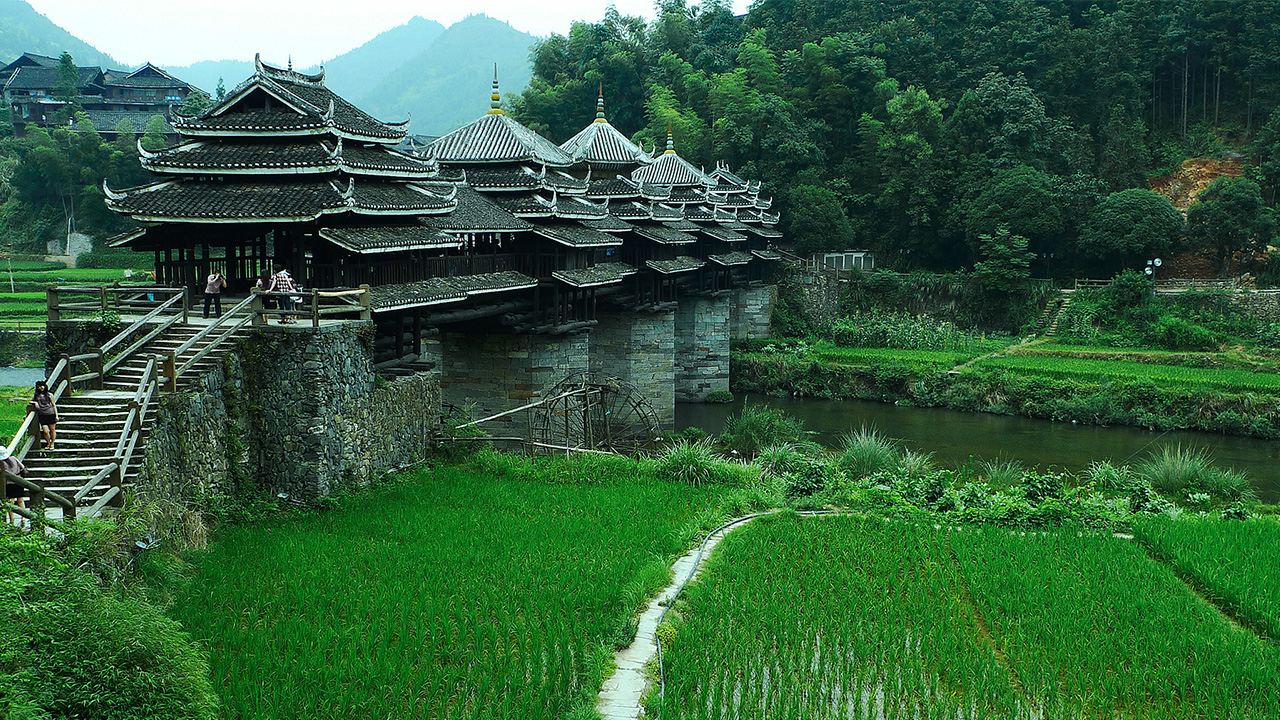
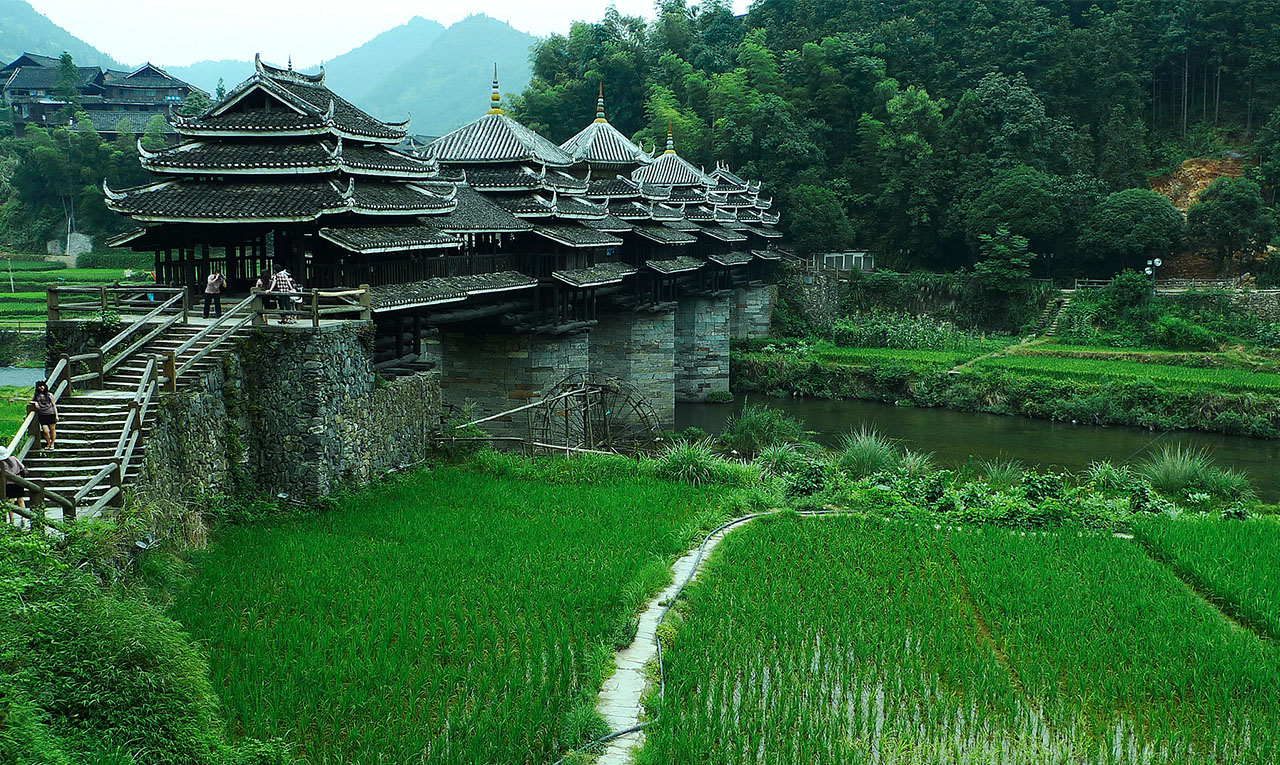
修改了图片大小、压缩css

diff --git a/css/apps/index.min.css b/css/apps/index.min.css
@@ -1,0 +1,1 @@
+@charset "utf-8";body{font-family:"Microsoft YaHei","宋体","Heiti SC";margin:0;min-width:730px}.zy_hidden,.zy_disable{display:none}.hasVideo:before{content:"";background:url(../../images/apps/hasvideo.png) no-repeat;width:80px;height:80px;position:absolute;right:0;top:0}.zy_touch_hscroll{overflow:auto !important;overflow-x:scroll !important;overflow-y:hidden !important;-webkit-overflow-scrolling:touch}img{border:0}a{text-decoration:none}.zy_bg_fixed{position:fixed !important;top:90px;left:0}.zy_music_section{position:fixed;top:0;right:0;height:50px;width:50px;z-index:100}.zy_player{margin-right:50px;height:100%;background:#cb2f3b;position:relative}.zy_music_title{text-align:center;font-size:14px;font-weight:bold;margin:0 0 0 10%;color:#fff;display:inline-block;height:100%;line-height:50px}.zy_music_controller{width:30%;height:100%;position:absolute;top:0;right:4px;text-align:center;line-height:50px}.zy_music_controller a{display:inline-block;height:14px;font-size:0;cursor:pointer;margin:0 5%;vertical-align:middle}.zy_music_prev{width:20px;background:url(../../images/apps/sprite.png) no-repeat -1574px -917px}.zy_music_play{width:10px;background:url(../../images/apps/sprite.png) no-repeat -1198px -1006px}.zy_music_pause{width:14px;height:12px;background:url(../../images/apps/sprite.png) no-repeat -1758px -871px}.zy_music_next{width:20px;background:url(../../images/apps/sprite.png) no-repeat -2018px -2px}.zy_music_prev:hover{width:20px;background:url(../../images/apps/sprite.png) no-repeat -2px -1005px}.zy_music_play:hover{background:url(../../images/apps/sprite.png) no-repeat -698px -972px}.zy_music_pause:hover{width:14px;height:12px;background:url(../../images/apps/sprite.png) no-repeat -1998px -57px}.zy_music_next:hover{width:20px;background:url(../../images/apps/sprite.png) no-repeat -1683px -679px}.zy_separate{display:block;height:30px;position:absolute;margin-top:10px;top:0;right:0;font-size:0;width:1px;background:#fff}.zy_music_show{display:inline-block;width:50px;height:50px;position:absolute;bottom:0;right:0;background:url(../../images/apps/music_entrance.png) no-repeat;cursor:pointer}.zy_music_show.zy_music_show_play{background:url(../../images/apps/music_entrance.gif) no-repeat}.zy_music_timeline{width:0;background:#fff;height:4px;position:absolute;bottom:0;font-size:0}.zy_main_wrapper{overflow:hidden}.zy_top_post{position:relative;width:100%;overflow:hidden;z-index:5}.zy_top_post_poster{width:100%;font-size:0;height:600px;position:relative;background:#ccc;overflow:hidden}.zy_top_post_heading{height:330px;position:absolute;width:100%;top:40%;margin-top:-115px;text-align:center}.zy_top_post_title{color:#fff;font-size:3em;overflow:hidden;cursor:pointer;height:135px;line-height:135px;max-width:70%;margin:auto;background:url(../../images/apps/water_graphics.png) no-repeat center center}.zy_top_post_date{color:#fff;font-size:1.5em;margin-top:10px}.zy_nav{width:100%;background:url(../../images/apps/nav_bg.png) repeat-x;height:80px;position:relative;z-index:5}.zy_nav ul{width:80%;margin:0 auto;text-align:center;padding:0;z-index:5}.zy_nav ul li:not(.zy_logo_li){display:inline-block;width:14%;list-style:none;vertical-align:top;position:relative}.zy_nav ul li>a{display:inline-block;font-size:24px;font-weight:bold;color:#fff;height:80px;line-height:80px;width:80px;-moz-box-sizing:border-box;-webkit-box-sizing:border-box;box-sizing:border-box;z-index:50}.zy_nav ul li>a:hover,.zy_nav ul li>a.active{border-bottom:solid 4px #ca2e3a;cursor:pointer;color:#ca2e3a}.zy_logo_li{width:220px;display:inline-block;list-style:none;vertical-align:top}.zy_logo{position:absolute;bottom:40px;width:100%;left:0;margin:0;z-index:8}.zy_logo:before,.zy_logo:after{content:"";background:#fff;height:2px;width:100%;position:absolute;bottom:39px}.zy_logo:before{left:50%;margin-left:110px}.zy_logo:after{right:50%;margin-right:110px}.zy_logo a{display:block;height:254px;background:url(../../images/apps/logo.png) no-repeat center center;font-size:0;width:220px;margin:auto}.zy_nav.zy_nav_active{position:fixed;top:0;z-index:50}.zy_nav.zy_nav_active .zy_logo{position:static}.zy_nav.zy_nav_active .zy_logo a{background:url(../../images/apps/logo_active.png) no-repeat center center;height:80px;width:128px;margin:auto}.zy_nav.zy_nav_active .zy_logo:before,.zy_nav.zy_nav_active .zy_logo:after{content:"";width:0;height:0}.zy_featured{width:100%;height:680px;background:#e0dbb3;padding-top:30px;position:relative;-webkit-box-sizing:border-box;-moz-box-sizing:border-box;-ms-box-sizing:border-box;box-sizing:border-box;z-index:5}.zy_featured:before{content:"";position:absolute;left:0;top:0;width:275px;height:210px;background:url(../../images/apps/mask_features_top.png) no-repeat}.zy_featured_heading{width:205px;background:url(../../images/apps/sprite.png) no-repeat -1604px -917px;height:68px;margin:0 auto;color:#f30;font-size:0;text-indent:-9999px;position:relative;top:30px}.zy_featured_articles{margin:70px 0;padding:10px 0;text-align:center;width:100%;-webkit-box-sizing:border-box;-moz-box-sizing:border-box;-ms-box-sizing:border-box;box-sizing:border-box;overflow:hidden}.zy_featured_articles li{display:inline;list-style:none}.zy_featured_articles .abstract{display:inline-block;margin:0 1%;-webkit-box-sizing:border-box;-moz-box-sizing:border-box;-ms-box-sizing:border-box;box-sizing:border-box;padding:15px;width:20%;height:460px;background:#fff;border-bottom:solid #c7c69e 8px;cursor:pointer;position:relative;vertical-align:top}.zy_featured_articles li .thumb img{width:100%}.zy_featured_articles li .title{width:100%;font-size:18px;overflow:hidden;font-weight:bold;color:#ca2e3a;text-align:left;white-space:nowrap;text-overflow:ellipsis}.zy_featured_articles li .excerpt{text-align:left;color:#666;height:78px;overflow:hidden;font-size:14px}.zy_featured_articles li .date{background:url(../../images/apps/sprite.png) no-repeat -1926px -2px;width:90px;height:53px;position:absolute;top:15px;left:-20px;color:#fff}.zy_featured_articles li .year{display:block}.zy_subheading{font-size:1.5em;color:#fff;text-align:center;font-weight:bold;position:absolute;z-index:12;height:68px;width:395px;left:50%;margin:0 0 0 -197.5px;line-height:68px;background:url(../../images/apps/sprite.png) no-repeat -1286px -679px}.zy_section_bg{height:800px;overflow:hidden;font-size:0;width:100%;position:relative;z-index:1}.zy_theme_bg_content{position:absolute;top:0;min-width:100%;min-height:800px;opacity:0;-webkit-transition:opacity 1s;-moz-transition:opacity 1s;-ms-transition:opacity 1s;transition:opacity 1s}.zy_theme_bg_default{opacity:1}.zy_contain_prev,.zy_contain_next{position:absolute;width:50px;height:50px;top:50%;margin-top:-25px;z-index:1;font-size:0;text-indent:-9999px;cursor:pointer;opacity:0;-webkit-transition:opacity .4s ease-out;-moz-transition:opacity .4s ease-out;-ms-transition:opacity .4s ease-out;transition:opacity .4s ease-out}.zy_contain_prev{background:url(../../images/apps/btn_arrow_left.png) no-repeat;left:0}.zy_contain_next{background:url(../../images/apps/btn_arrow_right.png) no-repeat;right:0}.zy_contain_prev:hover{background:url(../../images/apps/btn_arrow_left_pressed.png) no-repeat}.zy_contain_next:hover{background:url(../../images/apps/btn_arrow_right_pressed.png) no-repeat}.zy_list_container{position:relative;margin:auto;height:100%;overflow:hidden;border-top:#ccc 1px solid;border-bottom:#ccc 1px solid}.zy_landscape{position:relative;z-index:4}.zy_landscape_top_bg{background:#e0dbb3;height:80px;right:175px;position:absolute;width:100%;z-index:8}.zy_landscape_top_bg:after{content:"";background:url(../../images/apps/mask_landscape_top.png) no-repeat;width:175px;height:211px;position:absolute;top:0;right:-175px;z-index:11}.zy_landscape_heading{font-size:0;background:url(../../images/apps/sprite.png) no-repeat -1286px -341px;width:426px;height:336px;position:absolute;top:215px;left:50%;margin-left:-213px;z-index:1}.zy_landscape>.zy_subheading{top:685px}.zy_landscape_bottom_bg:before{content:"";background:url(../../images/apps/sprite.png) no-repeat -1245px -760px;width:150px;height:215px;position:absolute;bottom:0;left:-150px;z-index:11}.zy_landscape_bottom_bg{background:#191919;height:80px;top:720px;left:150px;position:absolute;width:100%;z-index:8}.zy_landscape_contain{width:100%;height:680px;-webkit-box-sizing:border-box;-moz-box-sizing:border-box;-ms-box-sizing:border-box;box-sizing:border-box;background:#191919;white-space:nowrap;overflow:hidden;position:relative;z-index:8}.zy_landscape_contain>.zy_list_container{border:0}.zy_landscape_contain>.zy_contain_prev,.zy_landscape_contain>.zy_contain_next{margin-top:-50px}.zy_landscape_list{margin:0;height:100%;-webkit-box-sizing:border-box;-moz-box-sizing:border-box;-ms-box-sizing:border-box;box-sizing:border-box;font-size:0;position:absolute;left:0;padding:0}.zy_landscape_article{display:inline-block;width:320px;height:100%;white-space:normal;-webkit-box-sizing:border-box;-moz-box-sizing:border-box;-ms-box-sizing:border-box;box-sizing:border-box;padding:0 10px;position:relative;cursor:pointer;vertical-align:top}.zy_landscape_article>.zy_article_info{position:relative}.zy_landscape_article>.zy_article_info img{width:100%}.zy_landscape_article>.zy_article_info h2{position:absolute;bottom:0;left:0;font-size:18px;color:#fff;background:url(../../images/apps/articletitle_fengjing_bg.png) repeat-x;margin:0;height:50px;width:100%;line-height:50px;text-indent:15px;overflow:hidden;white-space:nowrap;text-overflow:ellipsis}.zy_landscape_article>.zy_article_info:nth-child(2n){padding-top:20px}.zy_people{position:relative;z-index:3}.zy_people_top_bg:before{content:"";background:url(../../images/apps/sprite.png) no-repeat -1891px -474px;width:124px;height:205px;position:absolute;top:0;right:-124px;z-index:11}.zy_people_top_bg{background:#191919;height:5px;position:absolute;right:124px;width:100%;z-index:8}.zy_people_heading{font-size:0;text-indent:-9999px;background:url(../../images/apps/sprite.png) no-repeat -858px -422px;width:426px;height:336px;position:absolute;top:160px;left:50%;margin-left:-213px;z-index:1}.zy_people>.zy_subheading{top:640px}.zy_people_bottom_bg:after{content:"";background:url(../../images/apps/mask_humanity_bottom.png) no-repeat;width:200px;height:226px;position:absolute;bottom:0;left:-200px;z-index:11}.zy_people_bottom_bg{background:#fff;height:120px;position:absolute;top:680px;left:200px;width:100%;z-index:8}.zy_people_contain,.zy_community_contain{width:100%;height:530px;-webkit-box-sizing:border-box;-moz-box-sizing:border-box;-ms-box-sizing:border-box;box-sizing:border-box;background:#fff;white-space:nowrap;overflow:hidden;position:relative;z-index:8;padding:5px 5px 10px 5px}.zy_people_list,.zy_community_list{padding:0;margin:0;height:100%;-webkit-box-sizing:border-box;-moz-box-sizing:border-box;-ms-box-sizing:border-box;box-sizing:border-box;padding:20px 0;font-size:0;vertical-align:top;position:absolute;left:0}.zy_people_article,.zy_community_article{display:inline-block;width:240px;height:100%;white-space:normal;border-right:#ccc 1px solid;-webkit-box-sizing:border-box;-moz-box-sizing:border-box;-ms-box-sizing:border-box;box-sizing:border-box;padding:0 20px;position:relative;cursor:pointer}.zy_people_article>.zy_article_thumb,.zy_community_article>.zy_article_thumb{width:200px;height:200px;overflow:hidden;position:absolute;top:0}.zy_people_article>.zy_article_thumb img,.zy_community_article>.zy_article_thumb img{width:100%}.zy_people_article>.zy_article_abstract,.zy_community_article>.zy_article_abstract{width:200px;height:240px;text-align:center;position:absolute;bottom:0;overflow:hidden;color:#666}.zy_people_article>.zy_article_abstract h2,.zy_community_article>.zy_article_abstract h2{font-size:24px;color:#ca2e3a;overflow:hidden;white-space:nowrap;text-overflow:ellipsis}.zy_people_article>.zy_article_abstract p,.zy_community_article>.zy_article_abstract p{font-size:16px;line-height:2em;margin:5px 0}.zy_people_article>.zy_article_abstract p.zy_article_date,.zy_community_article>.zy_article_abstract p.zy_article_date{font-size:12px;border-top:#ccc 1px solid;padding-top:8px}.zy_people_article:nth-child(2n)>.zy_article_thumb,.zy_community_article:nth-child(2n)>.zy_article_thumb{bottom:0;top:auto}.zy_people_article:nth-child(2n)>.zy_article_abstract,.zy_community_article:nth-child(2n)>.zy_article_abstract{top:0;height:240px}.zy_artifact{position:relative;z-index:2}.zy_artifact .zy_section_bg{height:840px}.zy_artifact .zy_theme_bg_content{min-height:840px}.zy_artifact_top_bg:before{content:"";background:url(../../images/apps/sprite.png) no-repeat -304px -761px;width:131px;height:235px;position:absolute;top:0;right:-131px;z-index:11}.zy_artifact_top_bg{background:#fff;height:104px;position:absolute;right:131px;width:100%;z-index:8}.zy_artifact_heading{font-size:0;text-indent:-9999px;background:url(../../images/apps/sprite.png) no-repeat -2px -422px;width:426px;height:336px;position:absolute;top:255px;left:50%;margin-left:-213px;z-index:1}.zy_artifact>.zy_subheading{top:700px}.zy_artifact_bottom_bg:after{content:"";background:url(../../images/apps/mask_artifacts_bottom.png) no-repeat;width:175px;height:234px;position:absolute;bottom:0;left:-175px;z-index:11}.zy_artifact_bottom_bg{background:#fff;height:100px;position:absolute;left:175px;top:740px;width:100%;z-index:8}.zy_artifact_contain{width:100%;height:480px;padding:20px;-webkit-box-sizing:border-box;-moz-box-sizing:border-box;-ms-box-sizing:border-box;box-sizing:border-box;background:#fff;white-space:nowrap;overflow:hidden;position:relative;z-index:8}.zy_artifact_list{margin:0;height:100%;-webkit-box-sizing:border-box;-moz-box-sizing:border-box;-ms-box-sizing:border-box;box-sizing:border-box;padding:20px 0;font-size:0;position:absolute;left:0}.zy_artifact_article{display:inline-block;width:200px;height:400px;white-space:normal;-webkit-box-sizing:border-box;-moz-box-sizing:border-box;-ms-box-sizing:border-box;box-sizing:border-box;margin-right:5px;padding:0 5px 0 0;position:relative;overflow:hidden;cursor:pointer;vertical-align:top}.zy_artifact_list>.zy_artifact_article:first-child{width:400px;padding:0;margin-right:10px}.zy_artifact_list>.zy_artifact_article:first-child>.zy_article_thumb{height:400px}.zy_artifact_list>.zy_artifact_article:first-child>.zy_article_thumb>img{border:1px solid #ccc;box-sizing:border-box}.zy_artifact_list .zy_article_abstract{position:absolute;bottom:20px;left:20px;width:300px;height:190px;background:url(../../images/apps/sprite.png) no-repeat -2px -761px;padding:0 5%;box-sizing:border-box}.zy_artifact_list .zy_article_abstract h2{font-size:18px;color:#fff;height:50px;text-align:center;margin:0;line-height:50px;overflow:hidden;border-bottom:1px solid #fff;white-space:nowrap;text-overflow:ellipsis}.zy_artifact_list .zy_article_abstract p{font-size:14px;color:#fff;overflow:hidden;max-height:60px}.zy_artifact_article>.zy_article_info{position:relative;width:195px}.zy_artifact_article>.zy_article_info img{width:100%;border:1px solid #ccc;box-sizing:border-box}.zy_artifact_article>.zy_article_info h2{position:absolute;bottom:0;left:0;font-size:18px;color:#fff;background:url(../../images/apps/articletitle_wuyu_bg_small.png) repeat-x;margin:0;height:50px;width:100%;line-height:50px;text-indent:15px;overflow:hidden}.zy_artifact_article>.zy_article_info:nth-child(2n){padding-top:10px}.zy_community{position:relative;z-index:1}.zy_community .zy_section_bg{height:840px}.zy_community .zy_theme_bg_content{min-height:840px}.zy_community_top_bg:before{content:"";background:url(../../images/apps/mask_community_top.png) no-repeat;width:175px;height:306px;position:absolute;top:0;right:-175px;z-index:11}.zy_community_top_bg{background:#fff;height:100px;position:absolute;right:175px;width:100%;z-index:8}.zy_community_heading{font-size:0;text-indent:-9999px;background:url(../../images/apps/sprite.png) no-repeat -430px -422px;width:426px;height:336px;position:absolute;top:235px;left:50%;margin-left:-213px;z-index:1}.zy_community>.zy_subheading{top:686px}.zy_community_bottom_bg:after{content:"";background:url(../../images/apps/mask_community_bottom.png) no-repeat;width:175px;height:200px;position:absolute;bottom:0;left:-175px;z-index:11}.zy_community_bottom_bg{background:#fff;height:120px;position:absolute;top:720px;left:175px;width:100%;z-index:8}.zy_footer{width:100%;background-color:#fff;position:relative;padding:80px 0 0 0;-webkit-box-sizing:border-box;-moz-box-sizing:border-box;-ms-box-sizing:border-box;box-sizing:border-box}.zy_project_top_bg{height:111px;margin-right:182px;background:#212121;position:relative}.zy_project_top_bg:before{content:"";width:998px;height:80px;background:url(../../images/apps/sprite.png) no-repeat -2px -340px;position:absolute;bottom:111px}.zy_project_top_bg:after{content:"";width:182px;height:166px;background:url(../../images/apps/sprite.png) no-repeat -1574px -749px;position:absolute;right:-182px;bottom:0}.zy_project{background:#212121}.zy_project_info{width:40%;position:relative;top:-70px;padding:0;-webkit-box-sizing:border-box;-moz-box-sizing:border-box;-ms-box-sizing:border-box;box-sizing:border-box;display:inline-block;vertical-align:top}.zy_project_title{height:68px;width:205px;font-size:0;text-indent:-9999px;background:url(../../images/apps/sprite.png) no-repeat -1002px -340px;margin:auto}.zy_project_info p{color:#e6e6e6;font-size:14px;line-height:2em}.zy_project_sponsors{margin:0 5% 0 0;padding-left:10%;width:35%;display:inline-block;position:relative;top:-70px}.zy_bottom_logo{width:285px;margin:10px auto 20px auto}.zy_bottom_logo a{width:285px;height:268px;background:url(../../images/apps/sprite.png) no-repeat -1723px -204px;display:block;margin:auto;font-size:0}.zy_project_sponsors ul{margin:auto;text-align:center;border-top:1px solid #444;padding:10px 0 10px 0;font-size:0}.zy_project_sponsors ul li{display:inline-block;width:190px}.zy_project_sponsors ul li:first-child{border-right:2px solid #444;box-sizing:border-box;-moz-box-sizing:border-box;-webkit-box-sizing:border-box}.zy_project_sponsors .zy_logo_mkmj,.zy_project_sponsors .zy_logo_hnusd{width:180px;height:64px;font-size:0;text-indent:-9999px;margin:auto;display:block}.zy_project_sponsors .zy_logo_mkmj{background:url(../../images/apps/meikemeijie_logo.png) no-repeat}.zy_project_sponsors .zy_logo_hnusd{background:url(../../images/apps/HNU_logo.png) no-repeat}.zy_copyright{background:#333;padding:50px 0;text-align:center;color:#ccc;font-size:.7em}.zy_app_download{background:#333;text-align:center;padding:150px 0 50px 0}.zy_app_download>h2{font-size:2em;font-weight:bold;position:relative;margin:0;color:#b3b3b3;font-weight:normal}.zy_app_download>h3{font-size:3em;font-weight:bold;margin:0 auto;padding-bottom:20px;color:#b3b3b3;border-bottom:#b3b3b3 1px solid;width:600px}.zy_app_download_list{margin:0;padding:0}.zy_app_download_list li{list-style:none;display:inline-block}.zy_app_download_list li a{font-size:0;width:72px;height:72px;display:inline-block;text-indent:-9999px}.zy_app_download_list li a:hover{opacity:.5}.zy_app_download_list .zy_android_phone_app{background:url(../../images/apps/logo_android_phone.png) no-repeat}.zy_app_download_list .zy_android_pad_app{background:url(../../images/apps/logo_android_pad.png) no-repeat}.zy_wrap{position:fixed;top:0;left:0;width:100%;height:100%;background:#000;opacity:.7;z-index:9996}.zy_show_section{z-index:9999;position:fixed;top:0;bottom:0;width:100%;-webkit-box-sizing:border-box;-moz-box-sizing:border-box;-ms-box-sizing:border-box;box-sizing:border-box}.zy_show_close{width:50px;height:50px;display:block;margin:auto;cursor:pointer;background:url(../../images/apps/btn_close_normal.png) no-repeat}.zy_show_close:hover{background:url(../../images/apps/btn_close_pressed.png) no-repeat}.zy_article_container{position:fixed;left:100%;top:0;z-index:9997;width:100%;height:100%;margin:auto}.zy_popout_win{width:640px;height:200px;-webkit-box-sizing:border-box;-moz-box-sizing:border-box;-ms-box-sizing:border-box;box-sizing:border-box;background:url(../../images/apps/sprite.png) no-repeat -1284px -2px;padding:20px;position:fixed;top:50%;left:50%;margin:-100px 0 0 -320px;z-index:10001;text-align:center;overflow:hidden}.zy_popout_win>.zy_popout_title{color:#fff}.zy_popout_win>.zy_popout_btn{background:#fff;padding:8px;width:120px;display:block;position:absolute;bottom:30px;left:50%;margin-left:-60px;color:#ca2e3a;font-weight:bold;cursor:pointer}.zy_popout_win>.zy_popout_btn:hover{background:#1a1a1a}@-webkit-keyframes top{0%{opacity:1}50%{opacity:.6}100%{opacity:.2}}@-webkit-keyframes center{0%{opacity:1}50%{opacity:.2}100%{opacity:.6}}@-webkit-keyframes bottom{0%{opacity:.2}50%{opacity:.6}100%{opacity:1}}@-moz-keyframes top{0%{opacity:1}50%{opacity:.6}100%{opacity:.2}}@-moz-keyframes center{0%{opacity:1}50%{opacity:.2}100%{opacity:.6}}@-moz-keyframes bottom{0%{opacity:.2}50%{opacity:.6}100%{opacity:1}}@keyframes top{0%{opacity:1}50%{opacity:.6}100%{opacity:.2}}@keyframes center{0%{opacity:1}50%{opacity:.2}100%{opacity:.6}}@keyframes bottom{0%{opacity:.2}50%{opacity:.6}100%{opacity:1}}.zy_loading_spinner{position:absolute;top:50%;left:50%}.zy_loading_top,.zy_loading_center_left,.zy_loading_center_right,.zy_loading_bottom_left,.zy_loading_bottom_right{width:10px;height:10px;position:absolute;left:50%;background:#e83a00}.zy_loading_top{margin-left:-5px;-webkit-animation:top 2s infinite linear reverse;-moz-animation:top 2s infinite linear reverse;animation:top 2s infinite linear reverse}.zy_loading_center_left,.zy_loading_center_right{top:10px;-webkit-animation:center 2s infinite linear reverse;-moz-animation:center 2s infinite linear reverse;animation:center 2s infinite linear reverse}.zy_loading_center_left{margin-left:-15px}.zy_loading_center_right{margin-left:5px}.zy_loading_bottom_left,.zy_loading_bottom_right{top:20px;-webkit-animation:bottom 2s infinite linear reverse;-moz-animation:bottom 2s infinite linear reverse;animation:bottom 2s infinite linear reverse}.zy_loading_bottom_left{margin-left:-25px}.zy_loading_bottom_right{margin-left:15px}.zy_article_content{background:#fff;width:100%;position:absolute;top:50px;bottom:0;overflow-x:auto;overflow-y:hidden;padding:30px;-webkit-box-sizing:border-box;-moz-box-sizing:border-box;-ms-box-sizing:border-box;box-sizing:border-box}.zy_article_content::-webkit-scrollbar{height:8px}.zy_article_content::-webkit-scrollbar-track{background:#1a1a1a}.zy_article_content::-webkit-scrollbar-thumb{background:#ca2e3a}.zy_article_content_close{cursor:pointer;width:50px;height:50px;display:block;background:url(../../images/apps/btn_back_normal.png) no-repeat}.zy_article_content_close:hover{background:url(../../images/apps/btn_back_pressed.png)}.zy_show_load_container{width:100%;text-align:center;position:absolute;top:50px;bottom:0;overflow-y:auto}.zy_show_load_container::-webkit-scrollbar{width:8px}.zy_show_load_container::-webkit-scrollbar-track{background:#1a1a1a}.zy_show_load_container::-webkit-scrollbar-thumb{background:#ca2e3a}.zy_show_load_container img{margin:auto;max-width:100%}.zy_show_load_container video{max-width:100%;margin:auto}.article-main-post{-webkit-box-sizing:border-box;-ms-box-sizing:border-box;-moz-box-sizing:border-box;box-sizing:border-box;height:100%;position:relative;top:0;bottom:0;width:100%}.article-head-post{position:absolute;bottom:0;left:250px;z-index:3;-webkit-box-sizing:border-box;-moz-box-sizing:border-box;-ms-box-sizing:border-box;box-sizing:border-box;padding:20px;background:#fff;height:150px;min-width:50%}.article-head-post h1{padding:0;margin:0}.article-title-post{font-size:36px;color:#666;width:auto;padding-left:25px;padding-right:25px;padding-top:15px}.article-author-post,.article-category-post,.article-time-post{color:#666;font-size:16px;font-weight:normal;display:inline-block}.article-author-post{padding-right:10px}.article-category-post{padding:0 10px;border-left:#666 1px solid}.article-time-post{padding:0 10px;border-left:#666 1px solid}.article-poster-post{height:100%;font-size:0}.article-poster-post img{height:100%}.article-content-post{background:#fff;color:#666;font-size:16px;width:260px;position:absolute;top:0;left:540px;bottom:150px;padding:0 0 20px 40px;-webkit-column-count:auto;-webkit-column-gap:40px;-webkit-column-width:260px;-webkit-column-height:400px;-moz-column-count:auto;-moz-column-gap:40px;-moz-column-width:260px;-moz-column-height:400px;line-height:2em;letter-spacing:2px;z-index:1}.article-content-post::first-letter {display:inline-block;font-size:32px;color:#ca2e3a}.article-content-post img{width:100%}.article-content-post p{margin:0 10px}.article-content-post figcaption{color:#ca2e3a;font-size:12px;font-style:italic;line-height:1.4em;-webkit-box-sizing:border-box;-moz-box-sizing:border-box;-ms-box-sizing:border-box;box-sizing:border-box;text-align:center}.videoslide{text-indent:0;display:inline-block;position:relative;max-width:100%}.videoslide:before{content:"";background:url(../../images/apps/hasvideo.png) no-repeat;width:80px;height:80px;position:absolute;top:50%;left:50%;margin:-40px 0 0 -40px}.article-main-slide{background:#fff;height:540px;position:relative}.article-main-slide p{font-size:14px}.article-title-slide{color:#666;width:300px;font-size:36px;margin-top:0}.article-author-slide,.article-category-slide{color:#666;width:300px;line-height:10px;font-size:16px;font-weight:normal}.article-author-slide{border-bottom:#666 1px solid;padding-bottom:10px;margin-bottom:10px}.article-abstract-slide{margin-top:2em;font-size:18px;color:#666;width:300px;line-height:1.5em}.article-abstract-slide::first-letter {display:inline-block;font-size:32px;color:#ca2e3a}.allslides-slide{display:block;position:absolute;left:360px;top:0;height:540px;width:auto;white-space:nowrap}.slide-slide{display:inline-block;height:100%;position:relative}.slide-slide img{height:100%;width:auto}.slide-slide a{display:inline-block;height:100%}.imgcaption-slide{background-color:#000;width:100%;opacity:.7;position:absolute;bottom:0;left:0;color:#fff;font-size:16px;line-height:24px;padding:10px;white-space:normal;-webkit-box-sizing:border-box;-moz-box-sizing:border-box;-ms-box-sizing:border-box;box-sizing:border-box}.imgcaption-slide span{font-size:21px}@media screen and (max-width:1100px){.zy_project_sponsors li{padding:5px 0 5px 0}.zy_project_sponsors ul li:first-child{border-bottom:1px solid #444;border-right:0}.zy_featured_articles .abstract{padding:10px}.zy_featured_articles li .date{top:10px}}@media screen and (max-width:1100px){.zy_nav ul{width:100%}.zy_featured_articles li .excerpt{height:118px}}@media screen and (min-width:1900px){.zy_featured_articles li .excerpt{display:none}.zy_featured_articles li .title{text-align:center}}@media screen and (min-width:2150px){.zy_featured_articles li .title{display:none}}

diff --git a/css/apps/index.css b/css/apps/index.css
@@ -315,7 +315,7 @@ a{
     top:0px;
     width:275px;
     height:210px;
-    background: url(../../images/apps/sprite.png) no-repeat -437px -760px;
+    background: url(../../images/apps/mask_features_top.png) no-repeat;
 }
 
 .zy_featured_heading{
@@ -583,6 +583,7 @@ a{
 }
 .zy_landscape_article>.zy_article_info img{
     width:100%;
+
 }
 .zy_landscape_article>.zy_article_info h2{
     position: absolute;
@@ -873,6 +874,10 @@ a{
 .zy_artifact_list>.zy_artifact_article:first-child>.zy_article_thumb{
     height: 400px;
 }
+.zy_artifact_list>.zy_artifact_article:first-child>.zy_article_thumb>img{
+    border: 1px solid #ccc;
+    box-sizing: border-box;
+}
 .zy_artifact_list .zy_article_abstract{
     position: absolute;
     bottom:20px;
@@ -907,6 +912,8 @@ a{
 }
 .zy_artifact_article>.zy_article_info img{
     width:100%;
+    border: 1px solid #ccc;
+    box-sizing: border-box;
 }
 .zy_artifact_article>.zy_article_info h2{
     position: absolute;

diff --git a/index.html b/index.html
@@ -3,7 +3,7 @@
 <head>
     <meta http-equiv="Content-Type" content="text/html; charset=utf-8">
     <title>新通道</title>
-    <link rel="stylesheet" type="text/css" href="css/apps/index.css"/>
+    <link rel="stylesheet" type="text/css" href="css/apps/index.min.css"/>
     <script type="text/javascript" src="js/libs/modernizr.js"></script>
     <script type="text/javascript">
         //加载资源
